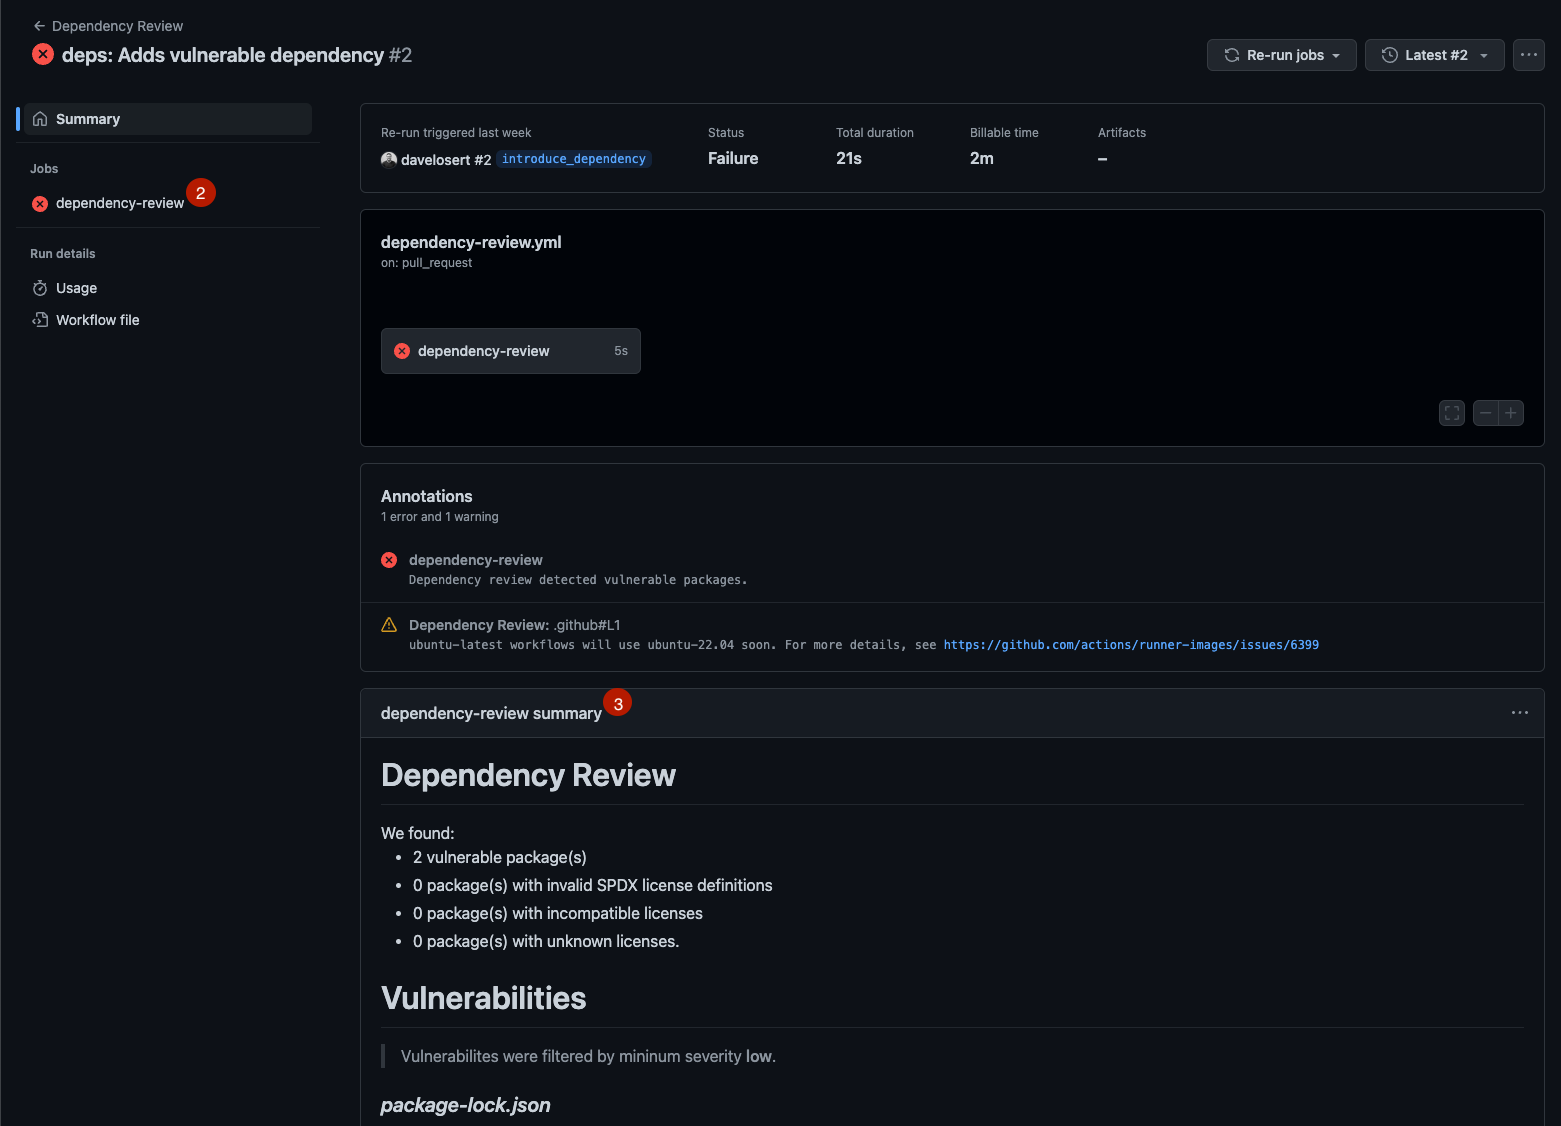
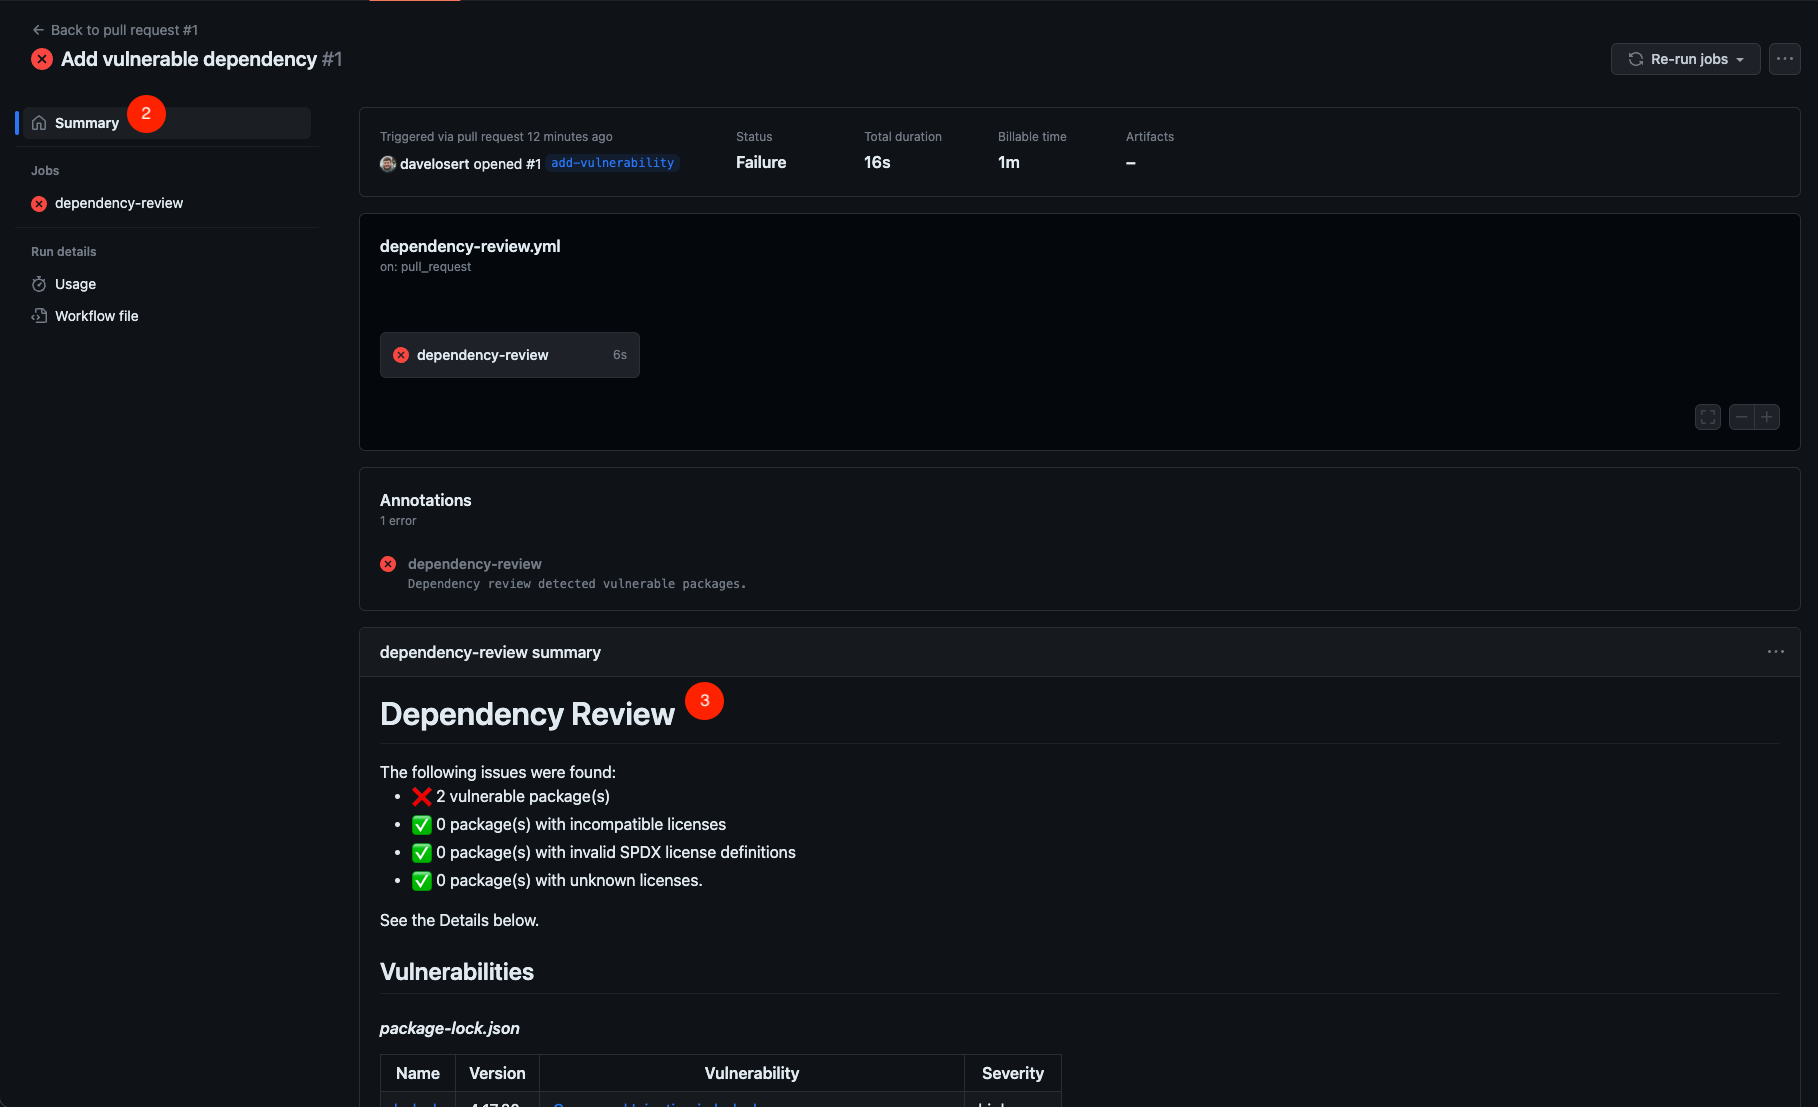
Updates dependency review step to include pr comment (#5)

diff --git a/docs/004-security.md b/docs/004-security.md
@@ -51,6 +51,7 @@ We can make use of this data with the [Dependency Review Action](https://github.
 
     permissions:
       contents: read
+      pull-requests: write
 
     jobs:
       dependency-review:
@@ -60,6 +61,8 @@ We can make use of this data with the [Dependency Review Action](https://github.
             uses: actions/checkout@v3
           - name: 'Dependency Review'
             uses: actions/dependency-review-action@v3
+            with:
+              comment-summary-in-pr: true
     ```
 
 2. Commit this file to your `main` Branch
@@ -92,13 +95,16 @@ Now lets test if this actually works. We need to install a new dependency, so yo
 5. Open a pull-request for your branch<br/>
     *If you don't know how to open a pull request, you can pick your favorite way and follow allong with our [docs on Creating a pull request](https://docs.github.com/en/pull-requests/collaborating-with-pull-requests/proposing-changes-to-your-work-with-pull-requests/creating-a-pull-request?tool=cli)*
 
-6. By opening a pull-request, you will trigger the `Dependency Review` workflow - but it will fail due to the newly introduced vulnerability. You can see the details on why it failed by clicking on the **Details** link next to the failed check and then navigate to the workflows summary:
+6. By opening a pull-request, you will trigger the `Dependency Review` workflow - but it will fail due to the newly introduced vulnerability. As we have set the `comment-summary-in-pr` option to `true`, the action will conveniently comment on the pull-request with a summary of the vulnerabilities it found:
+    ![Screenshot of the pull request comment with the vulnerability summary](images/004/dependency_review_pr_comment.png)
+  
+    Alternatively, you can also view the summary in the workflow-run's dashboard by clicking on the **Details** link next to the failed check and then navigate to the workflows **Summary**:
 
     ![Screenshot of the failed Dependency Review check](images/004/failed_dependency_review.png)
 
     ![Screenshot of the dependency review summary](images/004/dependency_review_summary.png)
 
-Inspect the Links in the markdown - they will take you directly to the advisory on GitHub, where you can find more information about the vulnerability and how to fix it.
+Inspect the Links in the summary - they will take you directly to the advisory on GitHub, where you can find more information about the vulnerability and how to fix it.
 
 **You can try to fix the vulnerability by upgrading to the patched version of lodash. However, this is not required to continue with the workshop, so you can also just leave the pull request as it is as a reference for you!**
 
